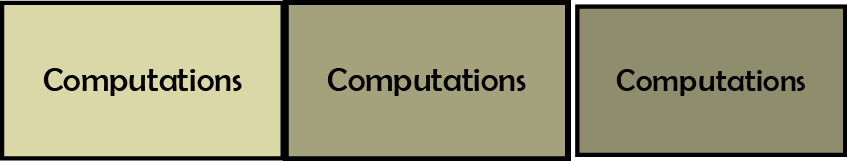
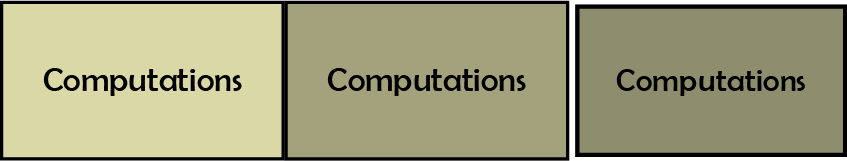
Changed design and aesthetic of menu buttons

Changed region(s): [[0.0, 0.0, 0.6753, 1.0]]

diff --git a/BrainApp/BrainApp/PageManager.cpp b/BrainApp/BrainApp/PageManager.cpp
@@ -60,15 +60,17 @@ void PageManager::historyPage()
 	menuVector.push_back(computationsButton);
 	menuVector.push_back(resourcesButton);
 
+	historyButton->keepPressed();
+
 	while (display->stayOnPage())
 	{
 		display->render(63, 184, 175, 255);
-		historyOfNeuroscience->draw(0, 100, pRenderer);
-		historyButton->drawFrame(3, 0, 0, pRenderer);
-		philosophyButton->drawFrame(3, 190, 0, pRenderer);
+		historyOfNeuroscience->draw(-15, 100, pRenderer);
+		historyButton->drawFrame(3, -1, 0, pRenderer);
+		philosophyButton->drawFrame(3, 190, -1, pRenderer);
 		scienceButton->drawFrame(3, 379, 0, pRenderer);
-		computationsButton->drawFrame(3, 569, 0, pRenderer);
-		resourcesButton->drawFrame(3, 840, 0, pRenderer);
+		computationsButton->drawFrame(3, 568, -1, pRenderer);
+		resourcesButton->drawFrame(3, 848, 0, pRenderer);
 		display->update();
 		this->manageEvents(menuVector);
 	}
@@ -106,7 +108,7 @@ bool PageManager::manageEvents(vector <Button *> buttonVector)
 				buttonVector.at(z)->setCurrentFrame(2);
 			}
 
-			else
+			else if (!buttonVector.at(z)->keepButtonPressed)
 				buttonVector.at(z)->setCurrentFrame(1);
 		}
 

diff --git a/BrainApp/BrainApp/main.cpp b/BrainApp/BrainApp/main.cpp
@@ -9,7 +9,7 @@ int main()
 {
 	SDL_Init(SDL_INIT_VIDEO);
 
-	SDL_Window * pWindow = SDL_CreateWindow("The Brain App: An Interactive Study Guide", 50, 50, 1100, 880, SDL_WINDOW_SHOWN); //prints window in the middle
+	SDL_Window * pWindow = SDL_CreateWindow("The Brain App: An Interactive Study Guide", 50, 50, 1070, 880, SDL_WINDOW_SHOWN); //prints window in the middle
 
 	if (pWindow == 0)
 	{

diff --git a/BrainApp/BrainApp/Button.cpp b/BrainApp/BrainApp/Button.cpp
@@ -33,3 +33,9 @@ void Button::setCurrentFrame(int frameNumber)
 	currentFrame = frameNumber;
 }
 
+void Button::keepPressed()
+{
+	currentFrame = 3;
+	keepButtonPressed = true;
+}
+
